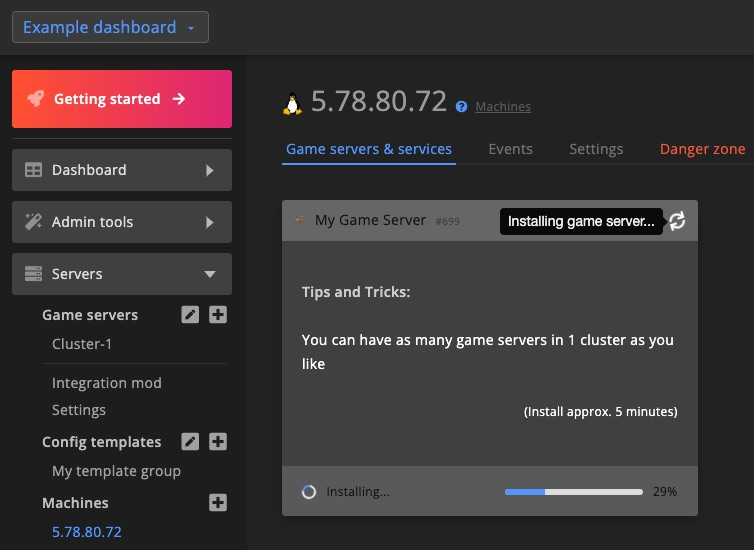
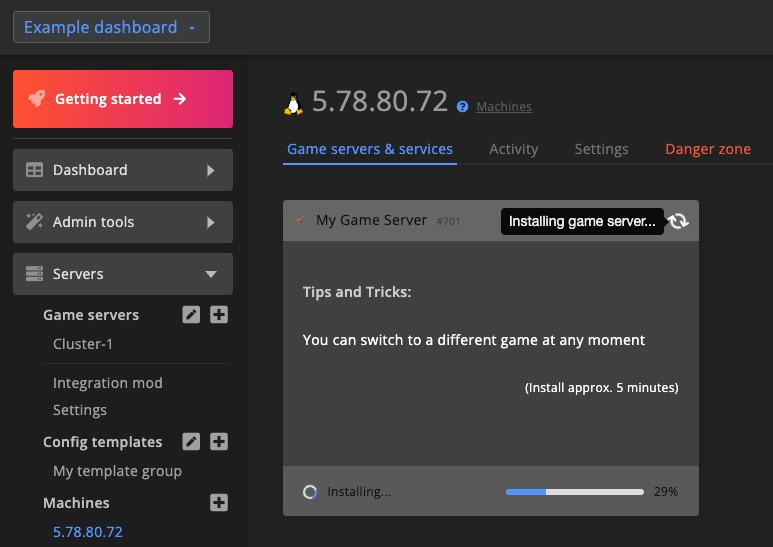
Events -> Activity renaming fix + todo

diff --git a/Documentation/docusaurus.config.js b/Documentation/docusaurus.config.js
@@ -11,7 +11,7 @@ const config = {
     baseUrl: '/',
     onBrokenLinks: 'throw',
     onBrokenMarkdownLinks: 'throw',
-    favicon: '/img/docs-logo-alt.ico',
+    favicon: '/img/docs-logo-alt.ico', //todo replace with slightly offset color, so people can easily recognise difference between platform & docs tabs in the browser
     organizationName: 'GameServerApp',
     projectName: 'Platform',
 
